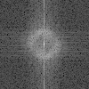
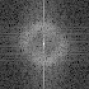
reworked pxs chapter including flux comparasion etc, checked and rewrite some parts in detector section.

diff --git a/02_middlepages/03_laser_getriebenes_instrument_fuer_resonante_streuung_mit_weichen_roentgenstrahlen.tex b/02_middlepages/03_laser_getriebenes_instrument_fuer_resonante_streuung_mit_weichen_roentgenstrahlen.tex
@@ -2,52 +2,33 @@
 \newacronym[user1=\emph{engl. „refection zone plate“}]{rzp}{RZP}{Reflexionszonenplatte}
 \chapter{Laser-getriebenes Instrument für resonante Streuung mit weichen Röntgenstrahlen}
 \label{text:quelle_roentgen}
-Typischerweise werden die Streuexperimente, wie es bereits in der Einleitung erwähnt wurde, mithilfe der Quellen mit der hohen Brillanz durchgeführt. Die Brillanz ist eine Charakteristik
-\begin{equation}
-    B \stackrel{\text{def.}}{=} \frac{\Delta N}{t\cdot A \cdot \Delta \Omega \cdot \frac{\Delta \lambda}{\lambda}},
-\end{equation}
-% wobei $\Delta N$ - die Anzahl der Photonen pro Zeit $t$, Fläche $A$, Raumwinkel $\Delta \Omega$ und innerhalb der Wellenlängebandbreite $\frac{\Delta \lambda}{\lambda}$ ist, mit der die Bündelung eines emittierten Strahls beschrieben werden kann. Weiter wird die Einheit „\emph{Schwinger}“ benutzt, die wie folgt definiert ist:
-% \begin{equation}
-%     1 \text{ Sch} = \frac{1 \text{ Photon}}{\si{\second}\cdot \si{\milli\meter\squared}\cdot \si{\milli\radian\squared}\cdot\SI{0,1}{\percent}\text{ Bandbreite}}
-% \end{equation}
-% Das Synchrotron PETRA III kann als Beispiel einer Quelle mit der hohen Brillanz dienen. Die Brillanzwerte $B_\text{PETRA}$ im Photonenenergiebereich von 0 bis \SI{2000}{\eV} liegen bei ca. $10^{20}$ - $10^{21}$ Sch \cite[Abb. 1]{franz_technical_2006}. Mit Hinblick auf die Strahlfläche, die im Bereich von ca. 10 bis \SI{50}{\micro\meter\squared} liegt, \cite{viefhaus_variable_2013} kann der Photonenfluss des Synchrotrons
-% \begin{equation}
-%     \text{Q}_\text{PETRA} \approx 10^{17} \frac{\text{Photonen}}{\si{\second}\cdot\si{\milli\radian\squared}\cdot\SI{0,1}{\percent}\text{ Bandbreite}}
-% \end{equation}
-% abgeschätzt werden.
-\noindent
-Als Beispiel werden die Strahlcharakterstiken an der Strahllinie P04 von PETRA III betachtet. Als Referenz für die weiteren technischen Angaben wird \cite{viefhaus_variable_2013} genommen.
+Typischerweise werden die Streuexperimente, wie es in der Einleitung bereits erwähnt wurde, mithilfe der Röntgenquellen mit der möglichst monochromatischen Strahlung, hohen räumlichen Kohärenz und dem hohen Photonenfluss durchgeführt. Die Strahllinie P04 am Synchrotron PETRA III kann als ein Vertreter solcher betrachtet. Die technischen Angaben stammen aus \cite{viefhaus_variable_2013}.
+% \noindent
+% Der Strahl an der Strahlinie ist stark kollimiert. So ist dessen Fläche von 10 bis \SI{50}{\micro\meter\squared} groß, wobei der Photonenfluss mehr als $\SI{1e12}{\photons\per\second}$ beträgt. Die Strahlung wird in Form der zeitlich periodischen Pulsen emittiert. Die typische Pulsdauer $t_\text{PETRA}$ ist \SI{44}{\pico\second} und Pulsperiode $T_\text{PETRA}$ kann zwischen den Werten \qtylist{8;16;192}{\nano\second} variiert werden \cite{petra-values-website}.
 
 \noindent
-Der Strahl an der Strahlinie kommt schon stark kollimiert uns ist von 10 bis \SI{50}{\micro\meter\squared} groß, wobei der Photonenfluss mehr als $\SI{1e12}{\photons\per\second}$ \cite{viefhaus_variable_2013} beträgt. Die Strahlung wird in Form der zeitlich periodischen Pulsen emittiert. Die typische Pulslänge $t_\text{PETRA}$ ist \SI{44}{\pico\second} und Pulsperiode $T_\text{PETRA}$ kann variiert werden und kann \qtylist{8;16;192}{\nano\second} \cite{petra-values-website} betragen.
-
-\noindent
-Als die Quelle der weichen Röntgenstrahlung in dem weiteren Experiment dient die \gls{pxs}, deren Aufbau in \cite{schick_laser-driven_2021} beschrieben ist. Deren Funktionsprinzip liegt die Emission von Wolfram im weichen Röntgenbereich zugrunde, die durch hochenergetische Laserpulsen getrieben wird \cite{mantouvalou_high_2015}. Aus diesem Grund emittiert die \gls{pxs} die Röntgenstrahlung in Form von Pulsen. Im Gegensatz zu PETRA III sind die Pulsslängen $t_\text{PXS}$ wesentlich kürzer sind und betragen ca. \SI{10}{\pico\second}, wobei die Pulsperiode $T_\text{XPS}$ viel größer ist und \SI{10}{\milli\second} beträgt. Das Spektrum von \gls{pxs} wurde mit einem kalibrierten Spektrometer vermessen und ist in der Abbildung \ref{fig:pxs_spectrum} zu sehen.
+Als die Quelle der weichen Röntgenstrahlung in dem weiteren Experiment dient eine \gls{pxs}, deren Aufbau und Charakteristiken in \cite{schick_laser-driven_2021} detailliert beschrieben sind. Ihrer Funktionsprinzip liegt die Emission von Wolfram im weichen Röntgenbereich zugrunde, die durch die hochenergetischen Laserpulsen getrieben wird \cite{mantouvalou_high_2015}. So wird die Röntgenstrahlung an der \gls{pxs} ebenso in Form von Pulsen emittiert. Im Vergleich zu PETRA III, wo die typische Pulsdauer $t_\text{PETRA}$ \SI{44}{\pico\second} und Pulsperiode $T_\text{PETRA}$ betragen, ist die Pulsdauer $t_\text{PXS}$ wesentlich kürzer und beträgt ca. \SI{10}{\pico\second}, wobei die Pulsperiode $T_\text{PXS}$ viel größer ist und im Bereich von \SI{10}{\milli\second} liegt.
 \begin{figure}[H]
     \centering
     \input{images/xps/xps_spectrum_700_1400_mrad.pgf}
     \caption{Das Spektrum der benutzten \gls{pxs}. Mit der Abkürzung „BB“ ist die Bandbreite zu verstehen. Die schwarzen Hilfelinien mit den Titeln entsprechen den Photonenenrgien $h\nu_{\text{Fe, L3}} = \SI{706.97}{\eV}$ bzw. $h\nu_{\text{Gd, M5}} = \SI{1184,79}{\eV}$. Adaptiert von \cite{schick_laser-driven_2021}, mit Genehmigung von \href{https://orcid.org/0000-0001-7988-6489}{D. Schick}.}
     \label{fig:pxs_spectrum}
 \end{figure}
+
 \noindent
-Die emittierte Strahlung wird mithilfe einer \gls{rzp} fokussiert. Zur Verfügung stehen nämlich drei \gls{rzp}, die für die Zielphotonenenergien von Fe (\SI{705}{\eV}), Gd (\SI{1189}{\eV}) und Dy (\SI{1292}{\eV}) konstruiert wurden. Der mit der \gls{rzp} fokussierte Strahl wird in Form einer Sanduhr auf der Detektorfläche (s. Abb. \ref{fig:butterfly_moench}) abgebildet, wobei die Zielphotonenenergie in der Sanduhrtaille liegt und die benachbarten Photonenenergien entlang der horizontalen Symmetrieachse des Strahlprofils um den Fokupunkt aufgelöst werden. Die Lage des Strahls auf dem Detektor lässt sich sowohl horizontal, als auch vertikal mit den hochpräzisen Schrittmotoren feinjustieren.
+Im Gegensatz zur hoch kollimierten monochromatischen Strahlung an der Strahllinie P04, wo die zu emittierende Photonenenergie direkt technisch voreinstellbar ist, strahlt die \gls{pxs} gleichzeitig die Photonen des ganzen Spektrums (s. Abb. \ref{fig:pxs_spectrum}) in alle Richtungen aus.
+
+\noindent
+Nichtsdestotrotz ist es möglich, die Strahlung zu bündeln und einen bestimmten Photonenenergiebereich zu selektieren. Dafür wird die emittierte Strahlung mithilfe einer \gls{rzp} fokussiert. Zur Verfügung stehen nämlich drei \gls{rzp}, die für die Zielphotonenenergien von Fe (\SI{705}{\eV}), Gd (\SI{1189}{\eV}) und Dy (\SI{1292}{\eV}) konstruiert wurden. Der mit der \gls{rzp} fokussierte Strahl wird in Form einer Sanduhr auf der Detektorfläche (s. Abb. \ref{fig:butterfly_moench}) abgebildet, wobei die Zielphotonenenergie in der Sanduhrtaille liegt und die benachbarten Photonenenergien entlang der horizontalen Symmetrieachse des Strahlprofils um den Fokuspunkt energetisch aufgelöst werden. Die Lage des Strahls auf dem Detektor lässt sich sowohl horizontal, als auch vertikal mit den hochpräzisen Schrittmotoren feinjustieren.
 \begin{figure}[H]
     \centering
     \input{images/xps/butterfly_latex.pgf}
     %\includegraphics[width=0.4\textwidth]{images/butterfly_sum_26026_frames_plt.png}
-    \caption{Das direkte Strahprofil an dem Detektor, das mit der \gls{rzp} für Gd fokussierst wurde. Der hellste Bereich entspricht der \SI{1189}{\eV}, die Photonenenergie nimmt von unten nach oben ab. Der Bereich, wo die Photonenenergie $h\nu_{\text{Gd, M5}} = \SI{1184,79}{\eV}$ abgebildet wurde, ist mit dem rotem Viereck schematisch markiert. Die Position von $h\nu_{\text{Gd, M5}}$ wurde dadurch gefunden, dass die Probe vertikal gefahren wurde und die Stelle der höheren Absorption genommen wurde.}
+    \caption{Das direkte Strahprofil an dem Detektor, das mit der \gls{rzp} für Gd fokussierst wurde. Der hellste Bereich entspricht der \SI{1189}{\eV}, die Photonenenergie nimmt von unten nach oben ab. Abgebildet ist die Summe von 2000 Pulsen. Der Bereich, wo die Photonenenergie $h\nu_{\text{Gd, M5}} = \SI{1184,79}{\eV}$ abgebildet wurde, ist mit dem rotem Viereck schematisch markiert. Die Position von $h\nu_{\text{Gd, M5}}$ wurde dadurch gefunden, dass die Probe vertikal gefahren wurde und die Stelle der höheren Absorption genommen wurde.}
     \label{fig:butterfly_moench}
 \end{figure}
 \noindent
-Der Streuungseffekt der Proben ist sehr energieselektiv und ist deswegen nur im schmalen Bereich um der Resonanzenergie $h\nu_{\text{Fe, L3}}$ bzw. $h\nu_{\text{Gd, M5}}$ zu erwarten. Diese Energien sind jedoch nicht die Zielenergien der beiden \gls{rzp}. Aus diesem Grund muss der Strahl mit dem Fokuspunkt horizontal verschoben werden, damit die Resonanzenergie mittig an dem Detektor liegt und an die Probe projiziert werden kann. Mit der zunehmenden Entfernung von der Fokuspunkt nimmt die Effizienz und die Abbildungsschärfe, also der Energiebereich pro Längeeinheit entlang der Energieachse, der \gls{rzp} ab.
-
-MYLAR FILTER MIT ALU
-\noindent
-Aus diesen Gründen kann der Photonenfluss von der bestimmten Photonenenergie, der schließlich auf den Detektor landet, nicht so einfach von der Abb. \ref{fig:pxs_spectrum} genommen werden, sondern muss experimentell bestimmt werden. Mit Einschub in den Abschnitt \ref{text:butterfly_counting} kann man sagen, dass die Gesamtzahl der Photonen in derselben Konfiguration der Abb. \ref{fig:butterfly_moench} pro ein Puls ca. 527 detektiert werden, wobei nur ca. ??? sich im Gd M5 markierten Bereich befinden. Um den Photonenfluss züruckzugewinnnen, muss man die Werte mit der Pulsfrequenz $f_\text{PXS} = \SI{100}{\hertz}$ multiplizieren. Das ergibt der Wert \SI{5.27e4}{\photons\per\second}.  Diese Angaben sind jedoch detektorspezifisch, da es unter anderem die Transmissionscharakterstik des Detektors infrage kommt.
+Es kann jedoch keine sinnvolle Aussage zum Photonenfluss der \gls{pxs} gemacht werden, da er nicht nur von der Wahl der \gls{rzp} abhängt, sondern auch von ihrer Position und dem  Photonenenergiebereich. Nichtsdestotrotz kann die Photonenfluss von \gls{pxs} innerhalb eines Pulses von oben abgeschätzt werden (s. Abschnitt \ref{text:butterfly_counting}). Dieser liegt deutlich unter 1000 Photonen pro Puls. In Hinblick auf die Pulsperiode $T_\text{PXS}=\SI{10}{\milli\second}$ ergibt sich die obere Grenze von Photonenfluss in Höhe von ca. \SI{1e4}{\photons\per\second}, wobei der Photonenfluss an der Strahllinie P04 höher als $\SI{1e12}{\photons\per\second}$ ist.
 
 \noindent
-Dies führt dazu, dass der ausreichende Kontrast bei denselben oder vergleichbaren Belichtungszeiten des Detektors nicht erreicht werden kann. In dem Fall gibt es zwei Strategien fürs Aufnahmeverfahren: es kann entweder die extrem hohe Belichtungszeit gesetzt werden, wobei das Hintergrundrauschen des Detektors relativ klein gegen der Belichtungszeit steigt, oder eine Methode vom Trennen des Hintergrundrauschens vom dem Streusignal angewendet werden. Um die Wahl der Lösung und die Bedingungen, die dem Detektor gegebenenfalls auferlegt werden, wird es im nächsten Kapitel genauer diskutiert. 
-% Gd M4 = 1212eV 
-
-\noindent
-Die zu untersuchende mehrschichtige Probe (s. Abschnitt \ref{text:streuung}), wie bereits erwähnt wurde, besteht aus Gd und Fe. Mithilfe der \gls{rzp} wird die Energie der M5 Gd-Absorptionskante $E_{Gd, M5} = \SI{1185(1)}{\eV}$ \cite[Abb. 6(a)]{prieto_x-ray_2005} auf die Probe abgebildet.
+Dies führt dazu, dass der ausreichende Kontrast bei denselben oder vergleichbaren Belichtungszeiten des Detektors nicht zu erreichen ist. In dem Fall gibt es zwei Strategien fürs Aufnahmeverfahren: es kann entweder die extrem hohe Belichtungszeit gesetzt werden, wobei das Hintergrundrauschen des Detektors relativ klein gegen der Belichtungszeit steigt, oder eine Methode vom Trennen des Hintergrundrauschens vom dem Streusignal angewendet werden. Um die Wahl der Lösung und die Bedingungen, die dem Detektor gegebenenfalls auferlegt werden, wird es im nächsten Kapitel genauer diskutiert. 

diff --git a/02_middlepages/04_moench_detektor.tex b/02_middlepages/04_moench_detektor.tex
@@ -10,10 +10,10 @@
 \newacronym{sls}{SLS}{Swiss Light Source}
 \newacronym{moench03}{MÖNCH03}{dritte Generation des MÖNCH-Detektors}
 \newacronym[user1=\emph{engl. signal to noise ratio}]{snr}{SNR}{Signal-Rausch-Verhältnis}
-Für die zweidimensionale Abbildung der Röntgenstrahlung sind die Detektoren gebraucht, die analog zu den üblichen Kameras für den sichtbaren Spektrumbereich funktionieren. Das wichtigste Bauteil aller Detektoren ist ein photonenempfindlicher Sensor. Die einfallende Photonen werden mit mehreren Fotodioden an der Sensorfläche in die Ladung durch den inneren Fotoeffekt umgewandelt. Für den weiteren Ladungstransport und die Datenverarbeitung gibt es aktuell (grundsätzlich/hauptsächlich) zwei Primärtechnologien, wonach alle Sensoren sich aufteilen lassen.
+Für die zweidimensionale Abbildung der Röntgenstrahlung sind die Detektoren gebraucht, die analog zu den üblichen Kameras für den sichtbaren Spektrumbereich funktionieren. Ein photonenempfindlicher Sensor ist das wichtigste Bauteil aller Detektoren. Die einfallende Photonen werden mit der Fotodioden an der Sensorfläche in die Ladung durch den inneren Fotoeffekt umgewandelt. Für den weiteren Ladungstransport und die Datenverarbeitung gibt es grundsätzlich zwei Primärtechnologien, wonach alle Sensoren sich aufteilen lassen.
 
 \section{CCD-Sensor}
-Die erste Sensorfamilie heißt ein \gls{ccd} oder \gls{ccd}-Sensor. Bei dieser Art des Sensors wird zuerst die Ladung von Fotodioden an den Leiter übertragen. Dann werden die Ladungen am Leiter durch die zeitliche Änderung des lokalen elektrischen Potential der Reihe nach verschoben. Typischerweise erfolgt die Verschiebung vertikal (entlang der Spalten), wodurch das Gesamtbild an dem Sensor nach der Reihen ausgelesen wird.
+Die erste Sensorfamilie heißt ein \gls{ccd} oder \gls{ccd}-Sensor. Bei diesem Sensortyp wird zuerst die Ladung von Fotodioden an den Leiter übertragen. Danach werden die Ladungen am Leiter durch die koordinierte zeitliche Änderung des lokalen elektrischen Potential der Reihe nach verschoben. Typischerweise erfolgt die Verschiebung vertikal (entlang der Spalten) bis zu dem einzigen horizontalen Leiter. Dieser wird auch ein Schieberegister genannt und ermöglicht den weiteren Ladungstransport zum Verstärker. Dieses Verfahren ist genauerer in der Abb. \ref{fig:ccd_scheme} dargestellt.
 \begin{figure}[H]
     \centering
     \subfloat[]{\includegraphics[width=0.24\textwidth]{images/ccd_scheme/ccd_frame_1_amp.pdf} \label{fig:ccd_scheme_frame_1}}
@@ -24,14 +24,14 @@ Die erste Sensorfamilie heißt ein \gls{ccd} oder \gls{ccd}-Sensor. Bei dieser A
     \label{fig:ccd_scheme}
 \end{figure}
 \noindent
-So werden die Ladungen seriell mit einem einzigen Verstärker in die Spannung und danach mit einem \gls{adc} umgewandelt. Die Dauer dieses Verfahrens hängt von der Sensorauflösung (Pixelanzahl) ab und kann relativ groß sein. Als Beispiel eines im Röntgenbereich aktiv benutzten CCD-Detektors kann es Princeton Instruments
-PI-MTE: 2048B$^{\text{®}}$ dienen. Im Falle der höchsten Ausleserate mit der \SI{1}{\mega\hertz} \cite[s. 81, Readout charakterstik]{mte-manual} kann die Auslese des gesamten Sensors 2048x2048px bis \SI{4,2}{\second} dauern. Die Auslesezeit kann jedoch durch die Auslese des verkleinerten Sensorbereichs verkürzt werden und beträgt im Falle eines 400x400px Sensorunterbereichs \SI{160}{\milli\second}.
+Die Ladungen werden seriell mit einem einzigen Verstärker zuerst in die Spannung und denn mit einem \gls{adc} in das Signal umgewandelt. So wird Gesamtbild an dem Sensor nach der Reihen ausgelesen.
 
 \noindent
-Gegen einer langen Auslesezeit hat diese Sensorart einen Vorteil des niedrigen Hintergrundrauschenpegels.
+Die Dauer dieses Verfahrens hängt von der Sensorauflösung (Pixelanzahl) ab und kann relativ lang sein. Als Beispiel eines im Röntgenbereich aktiv benutzten CCD-Detektors kann ein Princeton Instruments
+PI-MTE: 2048B$^{\text{®}}$ dienen. Im Falle der höchsten Ausleserate von \SI{1}{\mega\hertz} \cite[s. 81, Readout charakterstik]{mte-manual} kann die Auslese des gesamten Sensors 2048x2048px bis \SI{4,2}{\second} dauern. Die Auslesezeit kann  durch die Auslese eines kleineren Sensorbereichs verkürzt werden und beträgt im Falle eines 400x400px Sensorunterbereichs \SI{160}{\milli\second}. Gegen einer langen Auslesezeit hat dieser Sensortyp einen Vorteil des niedrigen Hintergrundrauschenpegels.
 
 \section{CMOS-Sensor}
-Die zweite große Sensorfamilie heißt \gls{cmos} sowie \gls{aps} oder \gls{cmos}-Sensor. Bei dieser Art des Sensors ist jede Fotodiode mit einem eigenen Verstärker versorgt, somit wird die Ladung von Fotodioden direkt innerhalb einer Zelle in die Spannung umgewandelt. 
+Die zweite große Sensorfamilie heißt \gls{cmos}. Die wird auch häufig \gls{aps} oder auch \gls{cmos}-Sensor genannt. Bei diesem Sensortyp ist jede Fotodiode mit einem eigenen Verstärker versorgt, somit wird die Ladung unmittelbar nah an der Fotodiode ohne weiteren Ladungstransport in die Spannung umgewandelt. Die Digitalisierung der Spannung von einer bestimmten Fotodiode kann durchs Schlissen vom Paar entsprechender Schalter in der Reihe und dem Spalt, wobei alle andere Schalter geschlossen bleiben. Dieses Verfahren ist in der Abb. \ref{fig:cmos_scheme} genauer dargestellt.
 \begin{figure}[H]
     \centering
     \subfloat[]{\includegraphics[width=0.30\textwidth]{images/cmos_scheme/cmos_auslese_frame_1_fat.pdf} \label{fig:cmos_scheme_frame_1}}
@@ -45,10 +45,10 @@ Die zweite große Sensorfamilie heißt \gls{cmos} sowie \gls{aps} oder \gls{cmos
     \label{fig:cmos_scheme}
 \end{figure}
 \noindent
-Damit können die Spannungen danach parallel in Spalten mit \gls{adc} digitalisiert werden. So sind die viel kürzeren Auslesezeiten erreichbar. Ein typische Auslesezeit einer Reihe liegt im \si{\micro\second}-Bereich, was im Falle des 2000x2000 Bildes (2000 Reihen) einige \si{\milli\second} betragen würde.
+Dadurch können die Spannungen parallel in Spalten mit \gls{adc} digitalisiert werden. So sind die viel kürzeren Auslesezeiten erreichbar. Ein typische Auslesezeit einer Reihe liegt im \si{\micro\second}-Bereich, was im Falle eines 2048x2048px Bildes einige \si{\milli\second} betragen würde.
 
 \noindent
-Nichtsdestotrotz hat ein \gls{cmos}-Sensor im Allgemeinen einen höheren Rauschpegel. Warum?..
+Diese Sensorfamilie ist allerdings nicht frei von Nachteilen. Der entscheidende Faktor, warum \gls{cmos}-Sensoren die \gls{ccd}-Sensoren nicht in allen Bereichen verdrängten, ist der wesentlich höhere Rauschpegel. Es gibt also verschiedene Szenarien, wo ein oder anderer Sensortyp angewendet werden kann. Die Wahl hängt von der verfügbaren Zeit, erzielten Präzision und Art der Messung ab.
 
 \section{MÖNCH-Detektor}
 Der MÖNCH-Detektor ist ein kommerziell hergestellter Detektor der Röntgenstrahlung von \gls{sls} am \gls{psi}. Dieser stellt einen hybrid-Detektor dar, dessen Sensor hauptsächlich seinem Aufbau nach einem \gls{cmos}-Sensor ähnelt. Die technischen Nachbersserungen in der Abb. \ref{fig:moench_pixel} lassen das Verstärkungsgrad variieren und die Auslesezeit durch den Einbau eines zusätzlichen Kondensatorspeichers beschleunigen.
@@ -94,7 +94,7 @@ Um die beste Anpassung der Messdaten zu gewährleisteten, werden das Aluminiumox
 \begin{equation}
     R(h\nu, r, \{d_m\}) = h\nu\cdot r\cdot\exp\left[-\sum_{m}\mu_m(h\nu)d_m\right]
 \end{equation}
-angepasst, wobei $r$ - konstanter Responsekoeffizient in \si{\adu\per\eV} pro Photon, $\mu_m(h\nu)$ - materialspezifischer energieabhängiger Absorptionskoeffzient für $m \in \{\text{Al}, \text{Si}, \text{Al$_2$O$_3$}\}$,  $d_m$ - Materialdicke sind. Die Absorptionskoeffzienten $\mu_m(h\nu)$ stammen aus \cite{xray-coeffs}.
+angepasst, wobei $r$ - konstanter Responsekoeffizient in \si{\adu\per\eV} pro Photon, $\mu_m(h\nu)$ - materialspezifischer energieabhängiger Absorptionskoeffzient für $m \in \{\text{Al}, \text{Si}, \text{Al$_2$O$_3$}\}$,  $d_m$ - entsprechende Materialdicke. Die Absorptionskoeffzienten $\mu_m(h\nu)$ stammen aus \cite{xray-coeffs}.
 \begin{figure}[H]
     \centering
     \input{images/moench/response_200_1900ev.pgf}

diff --git a/02_middlepages/02_prinzipien_der_magnetischen_resonanzstreuung.tex b/02_middlepages/02_prinzipien_der_magnetischen_resonanzstreuung.tex
@@ -206,29 +206,29 @@ Die zweite zu produzierende Probe, die weiter unter dem Namen \textbf{DS220126} 
 Ta(\SI{3}{\nano\meter}) und einer Deckschicht aus Ta(\SI{2}{\nano\meter}). Für die Wahl der Wiederholungszahl $N=116$ wurde \cite[Abschnitt „Sample Preparation“]{tripathi_dichroic_2011} als Referenz genommen.
 
 \section{Probenauswertung}
-Der Gleichung (\ref{eq:intensitat_fourier}) nach spielt der Wert $S(\mathbf{q})$ eine wichtige Rolle. Je kleiner die Periodizität der Domänenstruktur einer Probe ist, desto größer wird der der Wert $S(\mathbf{q})$. Eines der Messgeräten, das die magnetische Topographie des Materials abbilden lässt, ist ein \gls{mfm}. Die mit dem \gls{mfm} gemachten Aufnahmen sind in der Abbildung \ref{fig:mfm_amplitude} dargestellt.
+Der Gleichung (\ref{eq:intensitat_fourier}) nach spielt der Wert $S(\mathbf{q})$ eine wichtige Rolle. Je kleiner die Periodizität der Domänenstruktur einer Probe ist, desto größer wird der der Wert $S(\mathbf{q})$. Eines der Messgeräten, das die magnetische Topographie des Materials abbilden lässt, ist ein \gls{mfm}. Die mit dem \gls{mfm} aufgenommenen Domänenmuster und ihre Darstellungen im Fourier-Raum sind in der Abbildung \ref{fig:mfm_amplitude_ft} dargestellt.
+% \begin{figure}[H]
+%     \centering
+%     \subfloat[]{\includegraphics[width=0.27\textwidth]{images/mfm/ds211221_R1_membrane_amplitude_crop.png} \label{fig:mfm_ds211221}}
+%     \hspace{1cm}
+%     \subfloat[]{\includegraphics[width=0.27\textwidth]{images/mfm/ds211221_R1_membrane_amplitude_crop_2um .png} \label{fig:mfm_ds211221_2um}}
+%     \hspace{1cm}
+%     \subfloat[]{\includegraphics[width=0.27\textwidth]{images/mfm/ds220126_R1_membrane_amplitude_cropped.png} \label{fig:mfm_ds220126}}
+%     \caption{Die aufgenommenen Domäne von der Probe (a) \textbf{DS211221} und (b) \textbf{DS220126}. Aufgenommen mit dem Bruker Dimension Icon$^{\text{®}}$ Rastermikroskop im \gls{mfm} Modus. Den kleineren Werten des senkrecht ausgerichteten Anteils der Magnetisierung $\hat{\mathbf{m}}$ entsprechen die dunkleren Farben. Den größeren Werten - die helleren. Die Farbskala kann nicht in die absoluten physikalischen Werte umgerechnet werden. Aus diesem Grund sind die Magnetisierungsstärken verschiedener Proben miteinander nicht zu vergleichen.}
+%     \label{fig:mfm_amplitude}
+% \end{figure}
 \begin{figure}[H]
     \centering
-    \subfloat[]{\includegraphics[width=0.27\textwidth]{images/mfm/ds211221_R1_membrane_amplitude_crop.png} \label{fig:mfm_ds211221}}
+    \subfloat[]{\input{images/mfm/ft/61_real.pgf}\hspace{1mm}\raisebox{0.55in plus -.5\height}{\scalebox{2}{$\stackrel{\mathcal{F}}{\rightarrow}$}}\label{fig:mfm_ds211221}}
+    \subfloat[]{\hspace{1mm}\input{images/mfm/ft/61_ft.pgf}\label{fig:mfm_ds211221_ft}}
     \hspace{1cm}
-    \subfloat[]{\includegraphics[width=0.27\textwidth]{images/mfm/ds211221_R1_membrane_amplitude_crop_2um .png} \label{fig:mfm_ds211221_2um}}
-    \hspace{1cm}
-    \subfloat[]{\includegraphics[width=0.27\textwidth]{images/mfm/ds220126_R1_membrane_amplitude_cropped.png} \label{fig:mfm_ds220126}}
-    \caption{Die aufgenommenen Domäne von der Probe (a) \textbf{DS211221} und (b) \textbf{DS220126}. Aufgenommen mit dem Bruker Dimension Icon$^{\text{®}}$ Rastermikroskop im \gls{mfm} Modus. Den kleineren Werten des senkrecht ausgerichteten Anteils der Magnetisierung $\hat{\mathbf{m}}$ entsprechen die dunkleren Farben. Den größeren Werten - die helleren. Die Farbskala kann nicht in die absoluten physikalischen Werte umgerechnet werden. Aus diesem Grund sind die Magnetisierungsstärken verschiedener Proben miteinander nicht zu vergleichen.}
-    \label{fig:mfm_amplitude}
-\end{figure}
-\begin{figure}[H]
-    \centering
-    \subfloat[]{\input{images/mfm/ft/61_real.pgf}\hspace{1mm}\raisebox{0.55in plus -.5\height}{\scalebox{2}{$\stackrel{\mathcal{F}}{\rightarrow}$}}}
-    \subfloat[]{\hspace{1mm}\input{images/mfm/ft/61_ft.pgf}}
-    \hspace{1cm}
-    \subfloat[]{\input{images/mfm/ft/116_real.pgf}\hspace{1mm}\raisebox{0.55in plus -.5\height}{\scalebox{2}{$\stackrel{\mathcal{F}}{\rightarrow}$}}}
-    \subfloat[]{\hspace{1mm}\input{images/mfm/ft/116_ft.pgf}}
-    \caption{Die aufgenommenen Domäne und die Fourier-Transformierte von der Probe (a), (b) \textbf{DS211221} und (c), (d) \textbf{DS220126}. Die Domänen sind mit dem Bruker Dimension Icon$^{\text{®}}$ Rastermikroskop im \gls{mfm} Modus aufgenommen. Den höheren Werten des senkrecht ausgerichteten Anteils der Magnetisierung $\hat{\mathbf{m}}$ entsprechen die dunkleren Farben. Den kleineren Werten - die helleren. Die Farbskala kann nicht in die absoluten physikalischen Werte umgerechnet werden. Aus diesem Grund sind die Magnetisierungsstärken verschiedener Proben miteinander nicht zu vergleichen.}
+    \subfloat[]{\input{images/mfm/ft/116_real.pgf}\hspace{1mm}\raisebox{0.55in plus -.5\height}{\scalebox{2}{$\stackrel{\mathcal{F}}{\rightarrow}$}}\label{fig:mfm_ds220126}}
+    \subfloat[]{\hspace{1mm}\input{images/mfm/ft/116_ft.pgf}\label{fig:mfm_ds220126_ft}}
+    \caption{Die aufgenommenen Domänenmuster der Probe (a) \textbf{DS211221} und (c) \textbf{DS220126}, sowie  (b),(d) die Fourier-Transformierte von gegebenen Mustern. Die Domänenmuster wurden mit dem Bruker Dimension Icon$^{\text{®}}$ Rastermikroskop im \gls{mfm}-Modus aufgenommen. Die dunklere Farbe entspricht dem größeren Signalwert. Die Farbskala kann nicht in die absoluten physikalischen Werte umgerechnet werden. So sind die Magnetisierungsstärken verschiedener Proben miteinander nicht zu vergleichen.}
     \label{fig:mfm_amplitude_ft}
 \end{figure}
 \noindent
-Es ist leicht zu sehen, dass die Domänengröße der Probe \textbf{DS211221} in der Abb. \ref{fig:mfm_ds211221} wesentlich größer als die Domänengröße der Probe \textbf{DS220126} in der Abb. \ref{fig:mfm_ds220126} ist.
+Es ist leicht zu sehen, dass die Domänengröße der Probe \textbf{DS211221} in der Abb. \ref{fig:mfm_ds211221} wesentlich größer als die Domänengröße der Probe \textbf{DS220126} in der Abb. \ref{fig:mfm_ds220126} ist. Mit den Fourier-Transformierten (Abb. \ref{fig:mfm_ds211221_ft} und Abb. \ref{fig:mfm_ds220126_ft}) 
 
 \noindent
 Aus diesem Grund wurde die Probe \textbf{DS220126} in dem weiteren Verlauf des Experiments verwendet.

diff --git a/02_middlepages/05_experimenteller_aufbau.tex b/02_middlepages/05_experimenteller_aufbau.tex
@@ -1,7 +1,20 @@
 \chapter{Experimenteller Aufbau}
+MYLAR FILTER MIT ALU
+
+
+\noindent
+Der Streuungseffekt der Proben ist sehr energieselektiv und ist deswegen nur im schmalen Bereich um der Resonanzenergie $h\nu_{\text{Fe, L3}}$ bzw. $h\nu_{\text{Gd, M5}}$ zu erwarten. Diese Energien sind jedoch nicht die Zielenergien der beiden \gls{rzp}. Aus diesem Grund muss der Strahl mit dem Fokuspunkt horizontal verschoben werden, damit die Resonanzenergie mittig an dem Detektor liegt und an die Probe projiziert werden kann. Mit der zunehmenden Entfernung von der Fokuspunkt nimmt die Effizienz und die Abbildungsschärfe, also der Energiebereich pro Längeeinheit entlang der Energieachse, der \gls{rzp} ab.
+
+
+\noindent
+Aus diesen Gründen kann der Photonenfluss von der bestimmten Photonenenergie, der schließlich auf den Detektor landet, nicht so einfach von der Abb. \ref{fig:pxs_spectrum} genommen werden, sondern muss experimentell bestimmt werden. Mit Einschub in den Abschnitt \ref{text:butterfly_counting} kann man sagen, dass die Gesamtzahl der Photonen in derselben Konfiguration der Abb. \ref{fig:butterfly_moench} pro ein Puls ca. 527 detektiert werden, wobei nur ca. ??? sich im Gd M5 markierten Bereich befinden. Um den Photonenfluss züruckzugewinnnen, muss man die Werte mit der Pulsfrequenz $f_\text{PXS} = \SI{100}{\hertz}$ multiplizieren. Das ergibt der Wert \SI{5.27e4}{\photons\per\second}.  Diese Angaben sind jedoch detektorspezifisch, da es unter anderem die Transmissionscharakterstik des Detektors infrage kommt.
 \begin{figure}[H]
     \centering
     \includegraphics{images/aufbau/aufbau_empty.pdf}
     \caption{Die Skizze des Anlageaufbaus. Die Einzelbauteile sind farbig kodiert. In der Vakuumkammer (blau) wird der Druck in Höhe von ca. \SI{2.4e6}{\milli\bar} aufrechterhaltet. Der Probehalter (pink) ist aus Kupfer gemacht und kann die Rolle eines Wärmeleiters für die Probenkühlung spielen. Dazu ist der Probehalter mit der Kryoanlage angeschlossen. Der Probehalter lässt sich in. Der horizontale Spalt (fuchsia) dient zum Abschneiden des gewünschten Stahlsanduhrbereichs. Die Spaltlage sowie die Spaltbreite kann beliebig verstellt werden. Der MÖNCH-Detektor (rot) ist an der zum Strahlgang (gelb) gegenüberliegenden Wand der Vakuumkammer befestigt.}
     \label{fig:anlage}
 \end{figure}
+% Gd M4 = 1212eV 
+
+\noindent
+Die zu untersuchende mehrschichtige Probe (s. Abschnitt \ref{text:streuung}), wie bereits erwähnt wurde, besteht aus Gd und Fe. Mithilfe der \gls{rzp} wird die Energie der M5 Gd-Absorptionskante $E_{Gd, M5} = \SI{1185(1)}{\eV}$ \cite[Abb. 6(a)]{prieto_x-ray_2005} auf die Probe abgebildet.

diff --git a/02_middlepages/06_auswertung.tex b/02_middlepages/06_auswertung.tex
@@ -10,4 +10,5 @@ Die Auswertung von Messdaten wird durch ihre Größe erschwert. Eine Aufnahme-Se
 \section{Ermittlung des tatsächlichen Photonenflusses}
 \label{text:butterfly_counting}
 
-\section{HintergrundrauschenAuswertung der Streubilder}
+\section{Hintergrundrauschen Auswertung der Streubilder}
+\label{text:}
